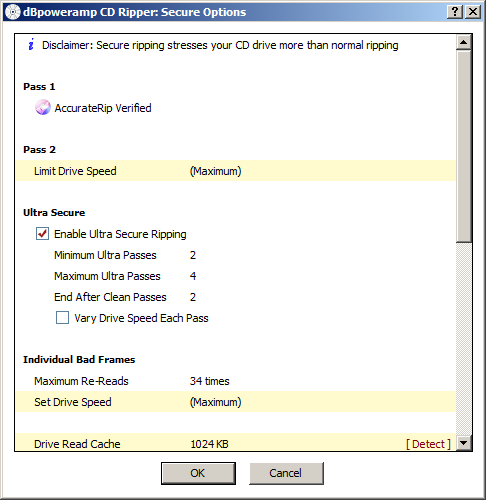
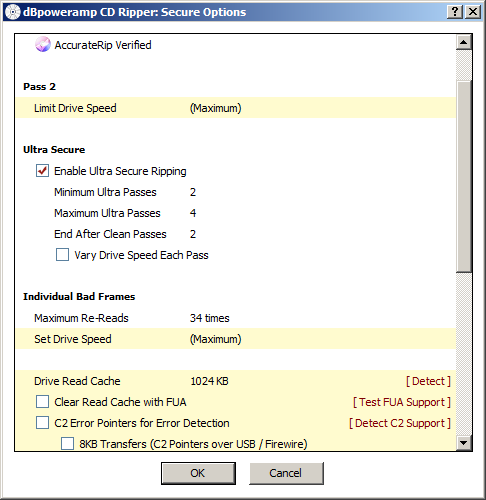
expanded dbpoweramp config

diff --git a/doc/setupGuide.md b/doc/setupGuide.md
@@ -102,6 +102,8 @@ In the window that appears, set *Ripping  Method* (at the top) to *Secure (Recov
 
 Leave the *AccurateRip* options as they are (all options checked). Next click on *Secure Settings* (to the right of *Secure (Recover Errors)*):
 
+![](./dbpaSecureOptions.png)
+
 * Check *Enable Ultra Secure Ripping*
 * *Minimum Ultra Passes* - set to 2 
 * *Maximum Ultra Passes* - set to 4
@@ -110,30 +112,37 @@ Leave the *AccurateRip* options as they are (all options checked). Next click on
 Note: the above settings are valid for a drive that does not support C2 pointers. See dBpoweramp's *cd-ripper-setup-guide* on how to determine if a drive supports C2 pointers (the Nimbie's built-in drive doesn't appear to support them).
 
 * *Drive Read Cache* - leave this at default value (1024 kB)
-
-See also:
-
-![](./dbpaSecureOptions.png)
-
 * *Clear Read Cache with FUA* - leave this unchecked
 * *C2 Error Pointers for Error Detection* - leave this unchecked as well
 
 ### Secure Rip Abort options
 
+Scrolling down we see the following options:
+
+![](./dbpaSecureRipAbort)
+
 * *After Unrecoverable Frames* - set to 1 frame
 * *When have to Re-Rip* - set to 100 frames
 * *After Ripping a Track For* - set to 10 minutes
 
-Finally, check *Mark Track as Error if Insecure*, and check both the *Secure Extraction Log* options. See below:
-
-![](./dbpaSecureRipAbort)
+Finally, check *Mark Track as Error if Insecure*, and check both the *Secure Extraction Log* options.
 
 
 ### AccurateRip configuration
 
-  
-Then close *CD Ripper*.
+AccurateRip is a technique that performs a [Cyclic Redundancy Check](https://en.wikipedia.org/wiki/Cyclic_redundancy_check) (CRC) of ripped audio tracks against an online database. This only works correctly if the read offset of the CD-drive is known. To so, load a (preferrably well-known/popular) audio CD into the disc robot. If all goes well the following dialog will pop up:
 
+![](./dbpaAccurateRip.png)
+
+Press *Configure*. After a few seconds the result is:
+
+![](./dbpaAccurateRip2.png)
+
+This value is automatically added to the CD-ROM settings:
+
+![](./dbpaAccurateRip3.png)
+
+Close the *CD Ripper* application. Now dBpoweramp is configured and ready for use! 
 
 ## Iromlab configuration
 
